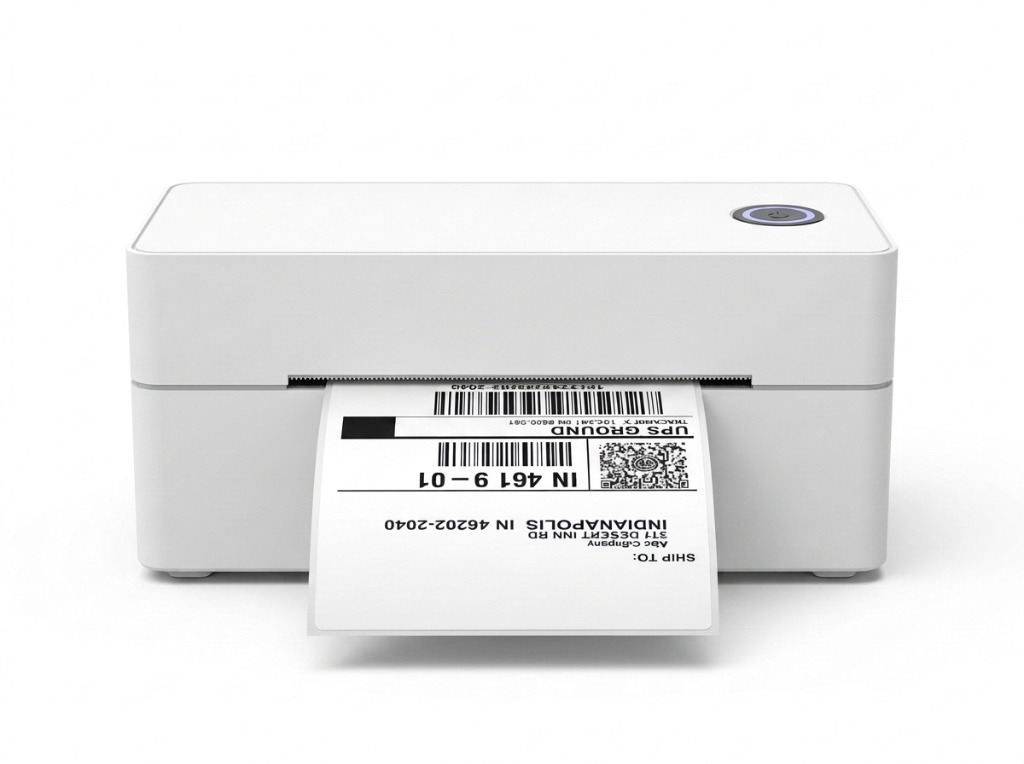
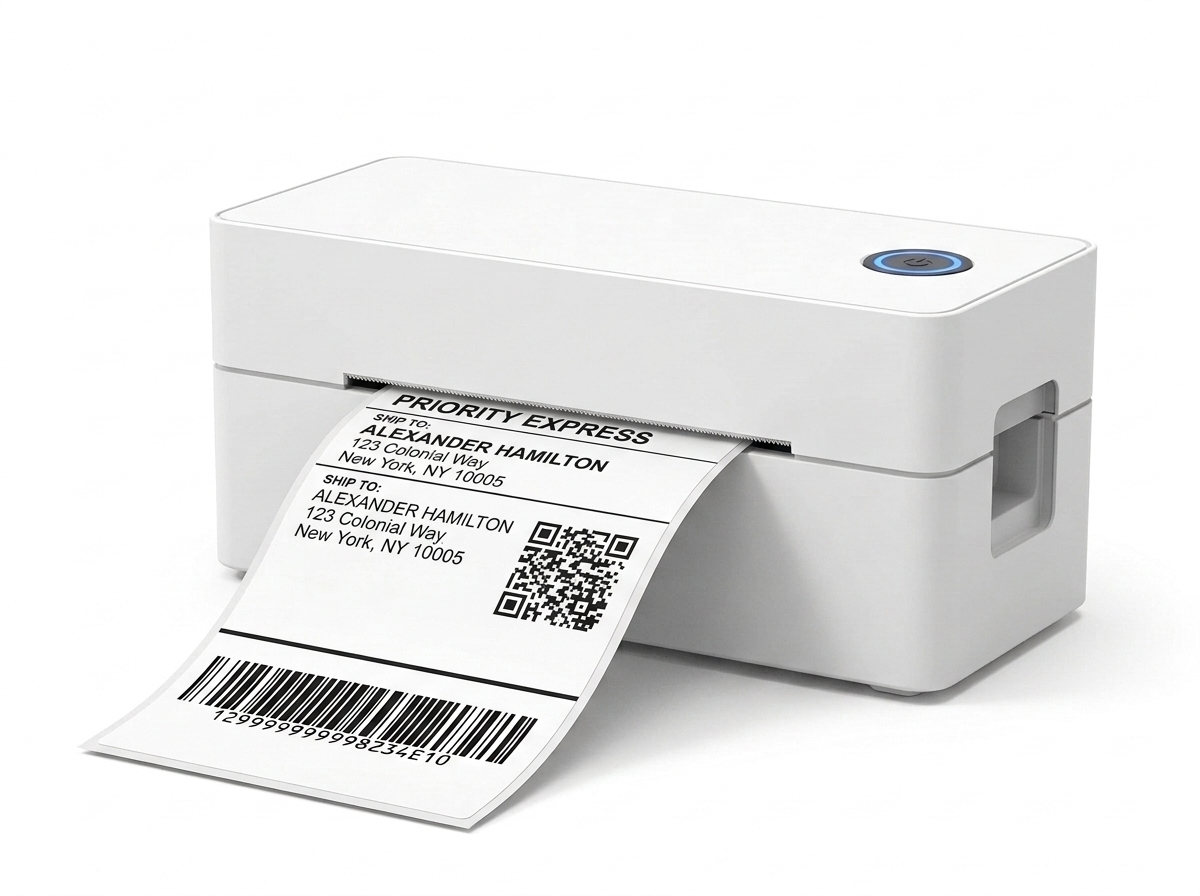
fix(imagery): update Section 2 Arctic White hero image with 3/4 side latch and tabletop resting label

diff --git a/src/app/page.tsx b/src/app/page.tsx
@@ -314,7 +314,7 @@ export default function HomePage() {
             }}
           >
             <Image
-              src={config.frontFeedImageWhite || "/bravon-hero-studio-white.jpg"}
+              src={config.frontFeedImageWhite || "/bravon-hero-studio-white-v2.jpg"}
               alt={`${config.productName || "Bravon POS-9260-L"} Commercial Thermal Label Printer in Arctic White with 4x6 shipping label`}
               fill
               style={{ objectFit: "contain", objectPosition: "center" }}

diff --git a/src/lib/siteConfig.ts b/src/lib/siteConfig.ts
@@ -155,7 +155,7 @@ export const DEFAULT_SITE_CONFIG: SiteConfig = {
   productImageDark: "/exact-printer-dark.png",
   productImageInBox: "/bravon-in-the-box-v3.jpg",
   productImageAction: "/bravon-shipping-action-v3.jpg",
-  frontFeedImageWhite: "/bravon-hero-studio-white.jpg",
+  frontFeedImageWhite: "/bravon-hero-studio-white-v2.jpg",
   frontFeedImageDark: "/bravon-hero-studio-dark.jpg",
   stickerLifestyleImage: "/bravon-stickers-floor-v2.jpg",
   storeLogoUrl: "/bravon-logo.png",
